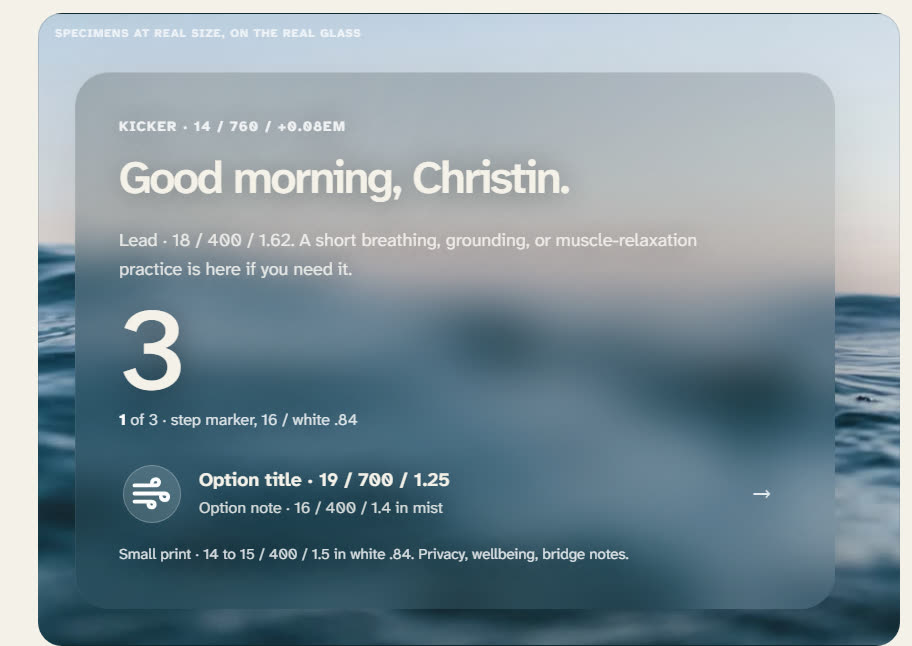
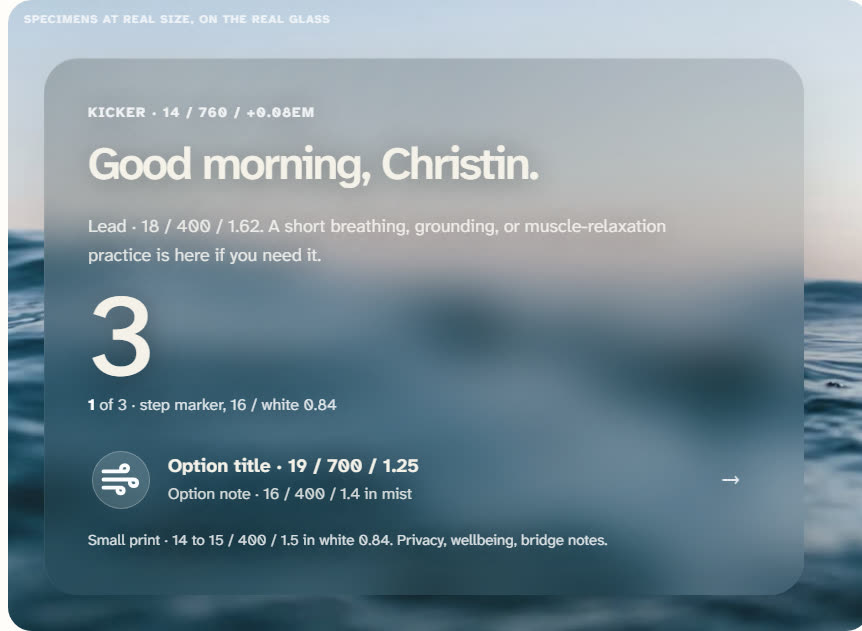
Centre every figure caption on the My Morning Door case study; re-render Figs. 09 and 10 without the old border

diff --git a/case-study-my-morning-door.html b/case-study-my-morning-door.html
@@ -362,7 +362,7 @@ p { margin: 0; }
 }
 .lead-shot figcaption {
   margin-top: 14px; font-family: var(--mono); font-size: var(--label);
-  color: var(--ink-meta); letter-spacing: .02em;
+  color: var(--ink-meta); letter-spacing: .02em; text-align: center;
 }
 @media (max-width: 700px) { .lead-shot { margin-top: 34px; } }
 
@@ -387,7 +387,7 @@ p { margin: 0; }
 .caption { margin-top: 22px; }
 .figure figcaption {
   margin-top: 14px; font-family: var(--mono); font-size: var(--label);
-  color: var(--ink-meta); letter-spacing: .02em;
+  color: var(--ink-meta); letter-spacing: .02em; text-align: center;
 }
 /* Phone-screenshot figure , two portrait captures side by side, centred */
 .phone-fig { margin: 0; }
@@ -1356,7 +1356,7 @@ body::after {
   <div class="wide screen-block">
     <div class="screen-row">
       <figure class="figure is-natural">
-        <img src="mmd-design-system.jpg?v=2" alt="The type scale from the design system, set on the extension's own glass panel over the ocean photograph: the kicker, the greeting Good morning, Christin, the lead paragraph, the large grounding count 3, a step marker, a practice option row and the small print, each labelled with its size, weight and spacing" width="912" height="646" loading="lazy">
+        <img src="mmd-design-system.jpg?v=3" alt="The type scale from the design system, set on the extension's own glass panel over the ocean photograph: the kicker, the greeting Good morning, Christin, the lead paragraph, the large grounding count 3, a step marker, a practice option row and the small print, each labelled with its size, weight and spacing" width="862" height="631" loading="lazy">
         <figcaption>Fig. 09: The type scale, set on the product's own&nbsp;glass</figcaption>
       </figure>
       <div class="caption">
@@ -1374,7 +1374,7 @@ body::after {
   <div class="wide screen-block">
     <div class="screen-row">
       <figure class="figure is-natural">
-        <img src="mmd-motion-system.jpg?v=2" alt="The Living Threshold demo on the motion system page after The door opens: three concentric rings with a soft centre glow over the ocean photograph, the label Choose your pause, buttons for The door opens, The door closes, Ring morph, Rings to grounding, Complete, Breathe: Longer Exhale, Breathe: Box and Stop, and a mode switch for Full, Gentle and Still" width="912" height="800" loading="lazy">
+        <img src="mmd-motion-system.jpg?v=3" alt="The Living Threshold demo on the motion system page after The door opens: three concentric rings with a soft centre glow over the ocean photograph, the label Choose your pause, buttons for The door opens, The door closes, Ring morph, Rings to grounding, Complete, Breathe: Longer Exhale, Breathe: Box and Stop, and a mode switch for Full, Gentle and Still" width="862" height="801" loading="lazy">
         <figcaption>Fig. 10: The Living Threshold demo, just after the door has&nbsp;opened</figcaption>
       </figure>
       <div class="caption">
